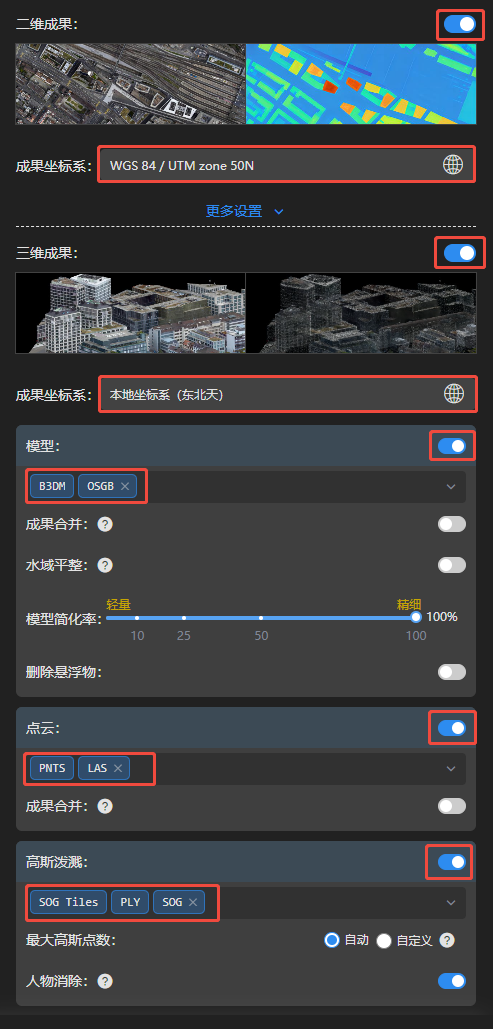
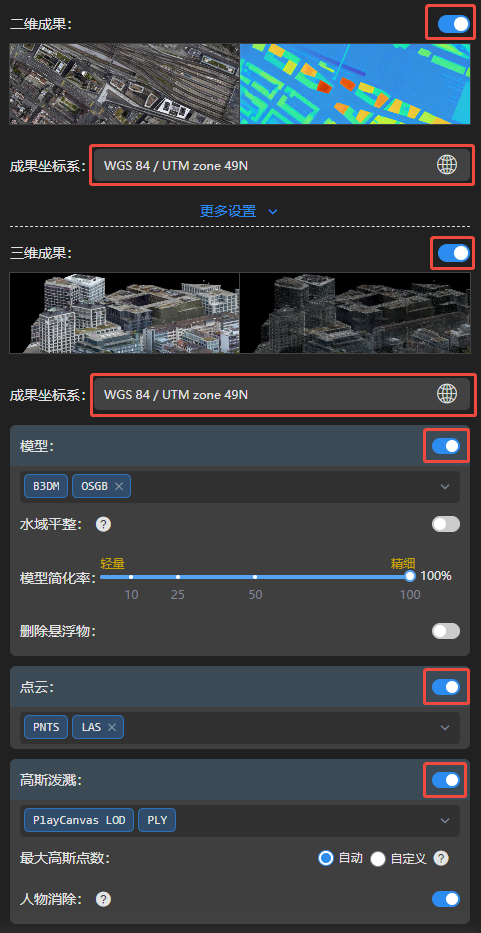
AS3.2.3

diff --git a/docs/zh-Hans/3.Visiblelight/3DResults.md b/docs/zh-Hans/3.Visiblelight/3DResults.md
@@ -17,7 +17,6 @@ sidebar_position: 8
 
 - 开启模型输出后，默认输出B3DM与OSGB格式。
 - 点击下拉框可选择需要输出的格式成果。
-- 成果合并：开启后OBJ、PLY、FBX、SKP、GLB格式可合并为单个文件，超大场景需要充足内存。
 - 水域平整：开启后，将对水面进行平整优化，只有在照片包含位置信息时才会生效。
 - 模型简化率：可拖动值域条，设置模型简化率。简化率越低模型细节越低，文件占用空间越小。
 - 删除悬浮物：开启后，成果输出时将对模型中的悬浮物进行删除。
@@ -30,7 +29,7 @@ sidebar_position: 8
 
 - 开启点云输出后，默认输出PNTS与LAS格式。
 - 点击下拉框可选择需要输出的格式成果。
-- 成果合并：开启后LAS、PLY格式可合并为单个文件，超大场景需要充足内存。
+
 
 ---
 
@@ -38,7 +37,7 @@ sidebar_position: 8
 
 ![](/img/cn-img/高斯泼溅.png)
 
-- 开启高斯泼溅后，默认输出SOGTiles、PLY、SOG格式。
+- 开启高斯泼溅后，默认输出PlayCanvas LOD、PLY格式。
 - 最大高斯点数：默认为自动，可自定义修改高斯点数来控制高斯成果大小。
 - 人物消除：开启后，可消除镜头中的人物对高斯成果的影响。
 > [!tip]一百万点的高斯PLY约为90MB，可按需设置高斯点数。

diff --git a/docs/zh-Hans/5.Results/ViewProducts.md b/docs/zh-Hans/5.Results/ViewProducts.md
@@ -30,7 +30,7 @@ sidebar_position: 6
 
 3D文件夹里存放所有的三维成果。
 
-![](/img/cn-img/企业微信截图_20260604121849.png)
+![](/img/cn-img/result3d.png)
 
 #### 网格模型成果
 -   model-b3dm：3DTiles格式的三维模型成果。
@@ -45,13 +45,21 @@ sidebar_position: 6
 -   model-gs-ply：PLY格式的高斯模型成果。
 -   model-gs-sog：SOG格式的高斯模型成果。
 -   model-gs-sog-tile：SOGTile格式的高斯模型成果。
-
+-   model-gs-splat-tile：SplatTile格式的高斯模型成果。
 
 #### 点云模型成果
 -   point-las：LAS格式的点云成果。
 -   point-osgb：OSGB格式的点云成果。
 -   point-ply：PLY格式的点云成果。
 -   point-pnts：PNTS格式的点云成果。
+
+---
+
+### 空三成果
+
+AT文件夹存放空三成果文件，mvs为原始空三成果，mvs_undistort为去畸变空三成果。
+
+![](/img/cn-img/企业微信截图_20260604123031.png)
 
 ---
 
@@ -77,13 +85,7 @@ thumbnail文件夹存放任务缩略图。
 
 -   rgb_thumbnail_4K：4K高清DOM缩略图。
 
----
 
-### 空三成果
-
-AT文件夹存放空三成果文件，mvs为原始空三成果，mvs_undistort为去畸变空三成果。
-
-![](/img/cn-img/企业微信截图_20260604123031.png)
 
 
 
